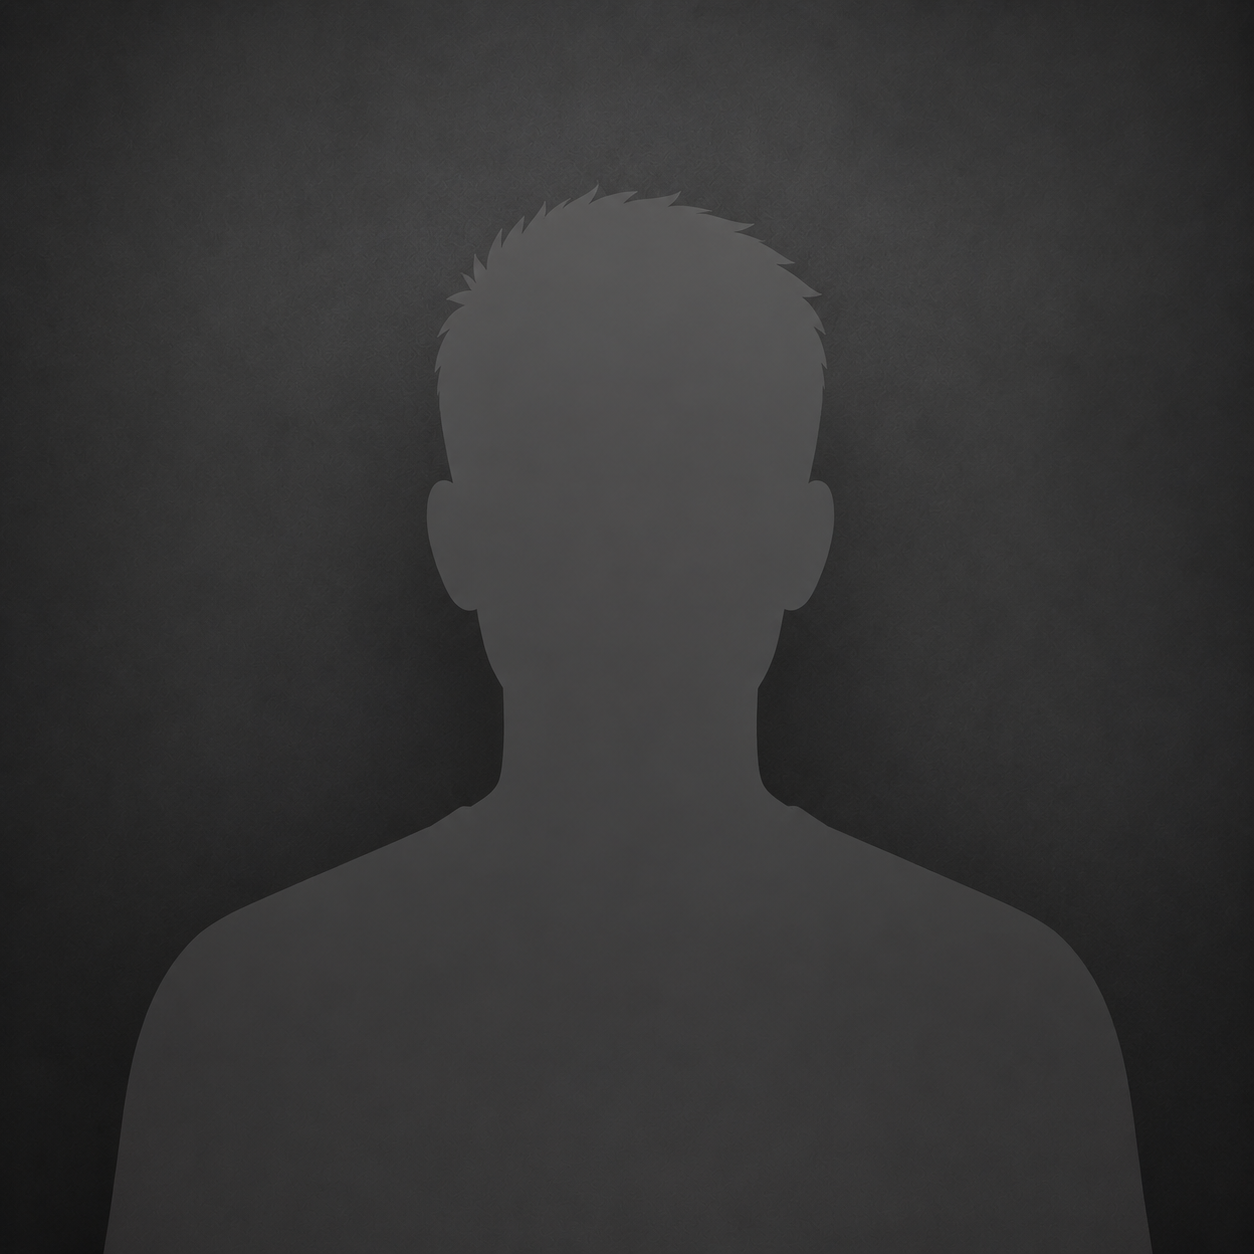
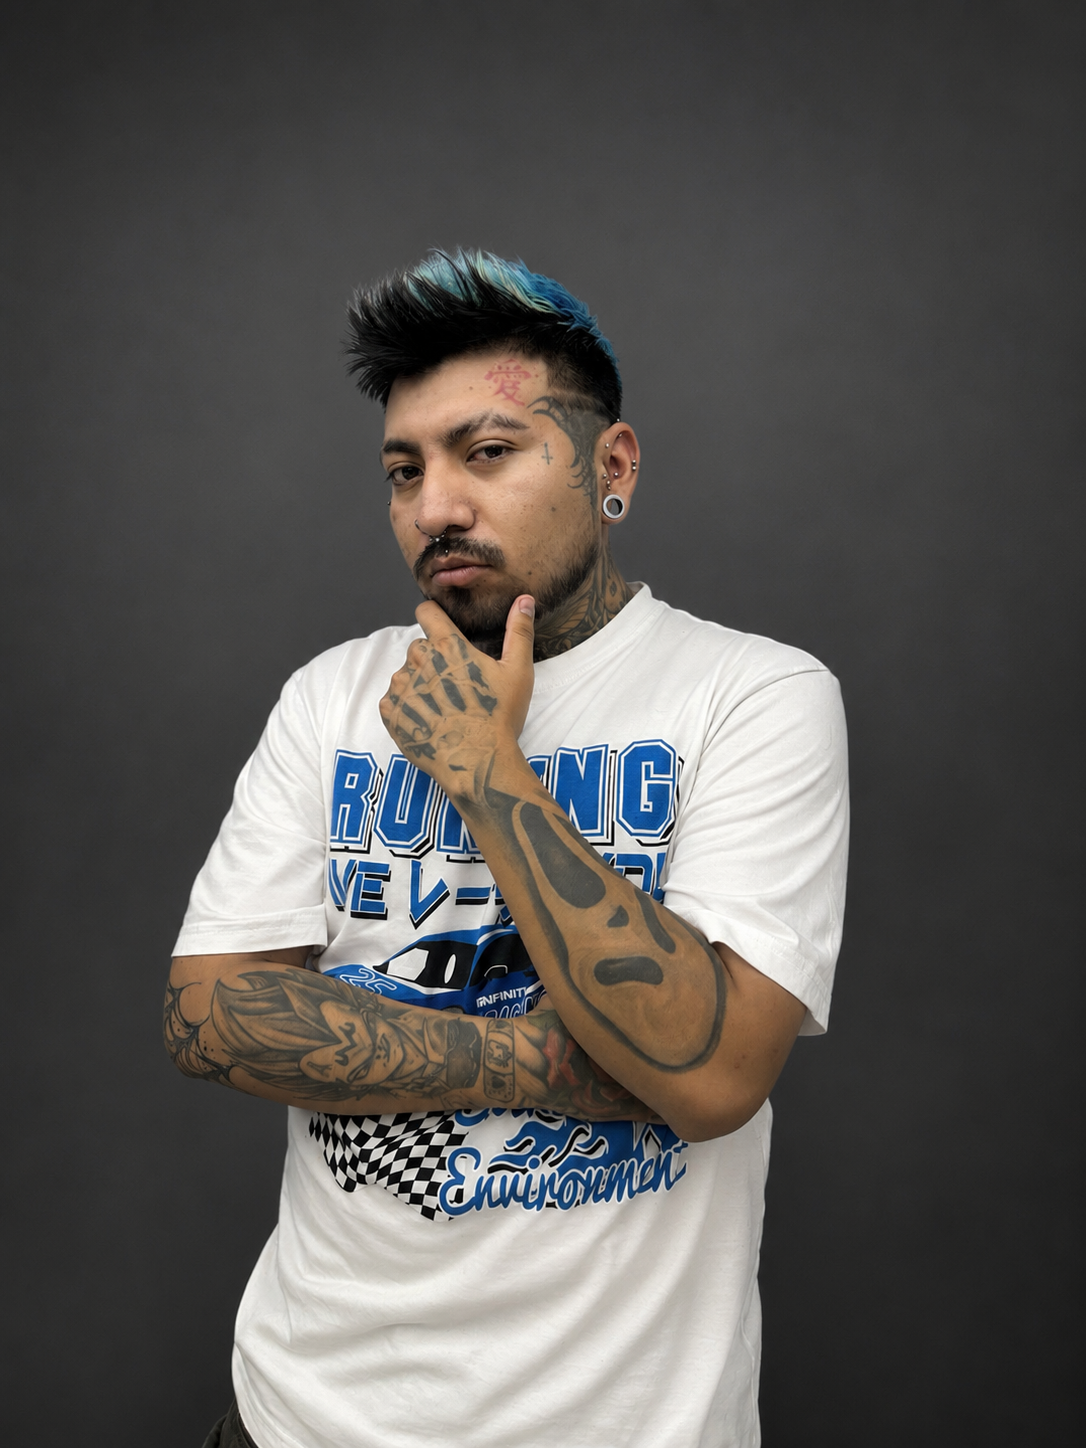
Erick barber

diff --git a/src/data/professionals.ts b/src/data/professionals.ts
@@ -197,7 +197,7 @@ const barber_vip: Professional = {
       name: 'Corte + Ritual de Barba',
       tag: 'Premium',
       price: 'Bs. 140',
-      durationMins: 60,
+      durationMins: 120,
       description:
         'Incluye corte y barba, más toalla caliente y masaje facial. La experiencia completa para relajarte y salir con un estilo impecable.',
       image: '/barber_vip/services/toallaritual.jpg',
@@ -256,8 +256,8 @@ const barber_vip: Professional = {
       id: 'limpieza',
       name: 'Limpieza Facial',
       tag: 'Premium',
-      price: 'Desde Bs. 160',
-      durationMins: 120,
+      price: 'Desde Bs. 80',
+      durationMins: 60,
       description:
         'Exfoliación, vapor y mascarilla para renovar tu piel.',
       image: '/barber_vip/services/limpiezafacial2.webp',
@@ -349,8 +349,8 @@ const barber_vip: Professional = {
       name: 'Erick Barber',
       shortName: 'Erick Barber',
       title: 'Barbero Profesional',
-      photo: '/barber_vip/photos/erick.png',
-      phone: '',
+      photo: '/barber_vip/photos/erick.PNG',
+      phone: '+59178328018',
       businessId: 'erick_barber',
       calendarFeedUrl: 'https://ghsecmooxmmodsgnwbvh.supabase.co/functions/v1/calendar-feed?token=b489736a45b9892ba1e8c15e409ef5d1dceecbfefecd4d86a30e56bc1fc25422',
     },
@@ -359,7 +359,7 @@ const barber_vip: Professional = {
       name: 'Rey Barber',
       shortName: 'Rey Barber',
       title: 'Barbero Profesional',
-      photo: '/barber_vip/photos/reybarber.png',
+      photo: '/barber_vip/photos/rey.jpeg',
       phone: '59177425356',
       businessId: 'rey_barber',
       calendarFeedUrl: 'https://ghsecmooxmmodsgnwbvh.supabase.co/functions/v1/calendar-feed?token=7abea0d35c896c53f56ef88ad2d8b4d749da2a3f5e380877fcf355ba665a6cc6',
